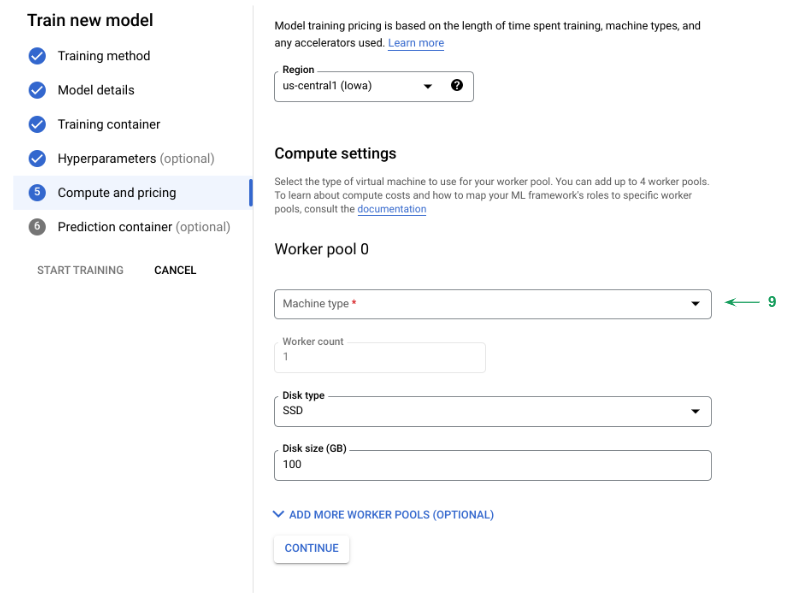
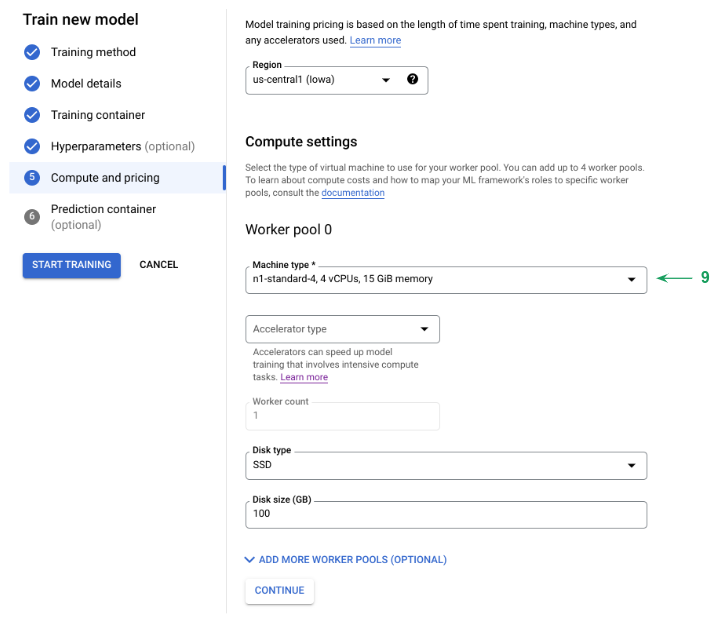
Final Revision

diff --git a/deploy-custom-model-gui/README.md b/deploy-custom-model-gui/README.md
@@ -193,3 +193,46 @@ Go to Vertex AI > Training > Create
 :------------------:
 ![](./images/training_method_1.png)
 
+
+1. This sections is for selecting a vertex dataset (in this case select "No managed dataset"). [info](https://cloud.google.com/vertex-ai/docs/training/using-managed-datasets)
+2. Select Custom Training (AutoML looks at the best model and hyperparameters taiolred to your business need) [info](https://cloud.google.com/automl/docs)
+
+| Model Details |
+:------------------:
+![](./images/model_details_1.png)
+
+3. Write a name for the model.
+
+
+| Training Container Specs 1 |
+:------------------:
+![](./images/training_container_1.png)
+
+4. In this case select pre-built (you can always train your data with your own container). 
+5. Select the framework for pre-built. [available frameworks](https://cloud.google.com/vertex-ai/docs/training/pre-built-containers)
+6. Select the version of the framework.
+7. Select the package location for trainer-0.1.tar.gz (you should get it from step 1).
+
+| Training Container Specs 2 |
+:------------------:
+![](./images/training_container_2.png)
+
+8. Write the module for the training, on step 1 you should've saved the code as /trainer/task.py = trainer.task
+
+| Compute and Pricing |
+:------------------:
+![](./images/compute_and_pricing_1.png)
+
+9. Select a machine type for the worker pools you can have up to 4 worker pools and map your ML frameworks to different pools.
+
+| Prediction Container |
+:------------------:
+![](./images/prediction_container_1.png)
+
+10. Select pre-built container for predictions. Frameworks available [here](https://cloud.google.com/vertex-ai/docs/predictions/pre-built-containers)
+
+11. Select Framework (Tensorflow).
+12. Select the Version (2.3).
+13. Select the Model Directory.
+
+Hit on training.
